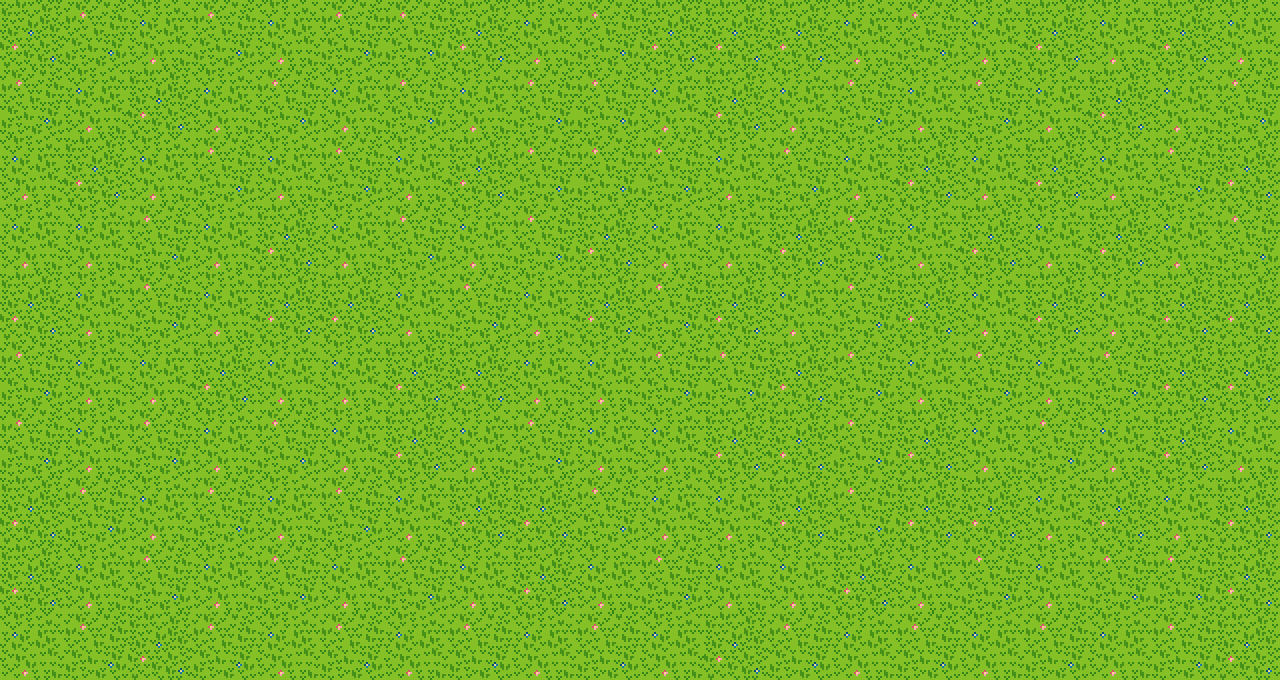
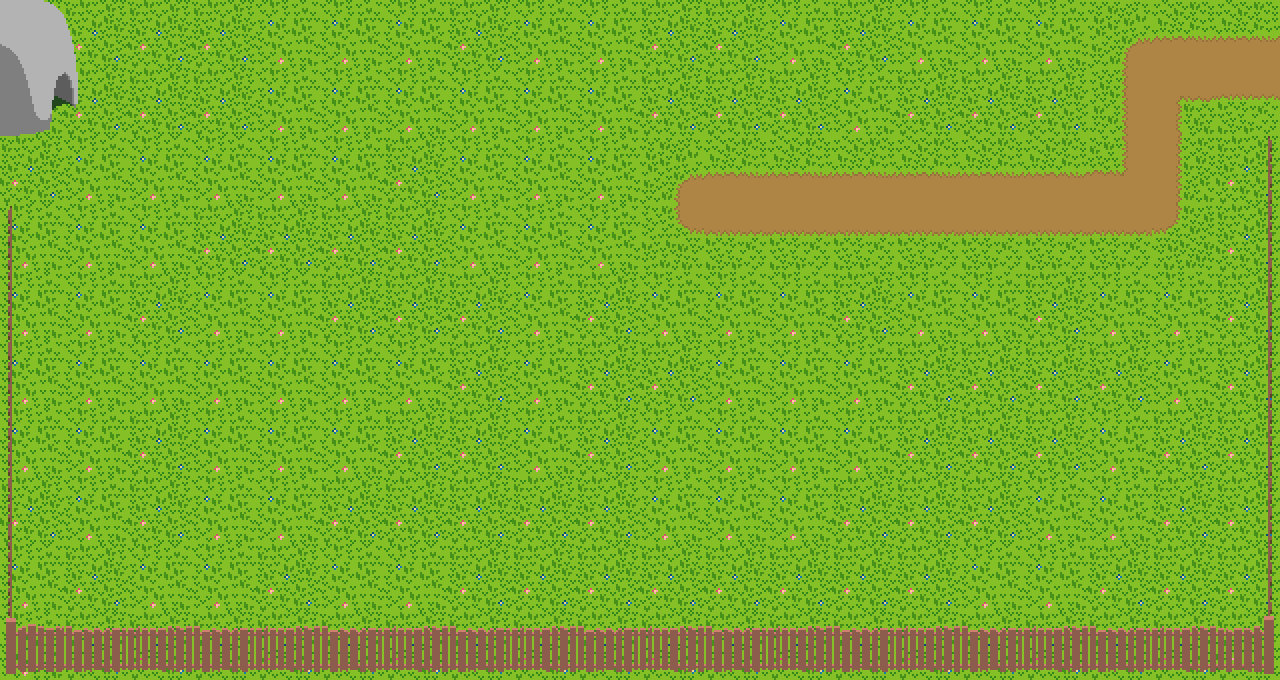
Add files via upload

diff --git a/main_beach.py b/main_beach.py
@@ -50,6 +50,8 @@ border1 = pygame.sprite.Group()
 border2 = pygame.sprite.Group()
 border3 = pygame.sprite.Group()
 border4 = pygame.sprite.Group()
+border5 = pygame.sprite.Group()
+border6 = pygame.sprite.Group()
 tree_sprites = pygame.sprite.Group()
 dobrinya = pygame.sprite.Group()
 b = pygame.sprite.Group()
@@ -88,8 +90,8 @@ class Hodit(pygame.sprite.Sprite):
         self.images.append(load_image('dobryny_side1_right.png').convert_alpha())
         self.image = dob
         self.rect = self.image.get_rect()
-        self.rect.x = 640
-        self.rect.y = 140
+        self.rect.x = 110
+        self.rect.y = 10
 
     def update1(self):
         if pygame.sprite.spritecollideany(self, border1):
@@ -116,46 +118,17 @@ class Hodit(pygame.sprite.Sprite):
             return True
 
     def update5(self):
-        if pygame.sprite.spritecollideany(self, border4):
+        if pygame.sprite.spritecollideany(self, border5):
             return False
         else:
             return True
 
     def update6(self):
-        if pygame.sprite.spritecollideany(self, border4):
+        if pygame.sprite.spritecollideany(self, border6):
             return False
         else:
             return True
 
-    def pupa(self):
-        for x in range(len(lstx)):
-            a = self.rect.x // 32 + 3
-            b = self.rect.y // 32 + 4
-            if a == lstx[x] + 2 and b == lsty[x] + 3 or a == lstx[x] + 3 and b == lsty[x] + 2 or \
-                    a == lstx[x] + 3 and b == lsty[x] + 1:
-                self.rect.x += 11
-
-    def pupa2(self):
-        for x in range(len(lstx)):
-            a = self.rect.x // 32 + 2
-            b = self.rect.y // 32 + 3
-            if a == lstx[x] and b == lsty[x] or a == lstx[x] + 1 and b == lsty[x] or a == lstx[x] - 1 and b == lsty[x]:
-                self.rect.y -= 11
-
-    def pupa3(self):
-        for x in range(len(lstx)):
-            a = self.rect.x // 32 + 1
-            b = self.rect.y // 32 + 1
-            if a == lstx[x] and b == lsty[x] or a == lstx[x] - 2 and b == lsty[x] or a == lstx[x] - 1 and b == lsty[x]:
-                self.rect.y += 11
-
-    def pupa4(self):
-        for x in range(len(lstx)):
-            a = self.rect.x // 32 + 1
-            b = self.rect.y // 32 + 1
-            if a == lstx[x] - 1 and b == lsty[x] or a == lstx[x] - 2 and b == lsty[x] - 1 or \
-                    a == lstx[x] - 2 and b == lsty[x] - 2:
-                self.rect.x -= 11
 
 
 class Board:
@@ -182,8 +155,8 @@ class Board:
 
     def random_spawn_trees(self, n):
         for i in range(n):
-            x = random.randint(2, 30)
-            y = random.randint(9, 17)
+            x = random.randint(2, 27)
+            y = random.randint(9, 14)
             if x in lstx or x + 1 in lstx or x + 2 in lstx or x + 3 in lstx:
                 if y in lsty or y + 1 in lsty or y + 2 in lsty or y + 3 in lsty or y + 4 in lsty:
                     continue
@@ -191,7 +164,7 @@ class Board:
             lsty.append(y + 1)
             self.board[y][x] = 10
             if self.board[y][x] == 10:
-                image = load_image('test__tree2.png').convert_alpha()
+                image = load_image('clay_test2.png').convert_alpha()
                 tree = pygame.sprite.Sprite(tree_sprites)
                 tree.image = image
                 tree.rect = tree.image.get_rect()
@@ -200,7 +173,7 @@ class Board:
                 tree.rect.y = 32 * (y - 1)
 
     def rerender(self, src):
-        phone = load_image('test_grass4.png').convert_alpha()
+        phone = load_image('test_beach1.png').convert_alpha()
         src.blit(phone, (0, 0))
 
     def rubit(self):
@@ -216,24 +189,31 @@ class Board:
                 if x == lstx[i] and y == lsty[j]:
                     if lines[9].strip() == "1":
                         self.f += 1
-                        self.aa = i
-                        self.a = j
                         break
         if self.f == 6:
             self.f = 0
             for sp in tree_sprites.sprites():
                 ix = sp.rect.x // 32 + 1
                 iy = sp.rect.y // 32 + 1
-                if sp.rect.x == 32 * (x - 1) and sp.rect.y == 32 * (y - 2):
-                    if (ix == xd // 32 + 1 or ix == xd // 32 + 2 or ix == xd // 32 + 3 or
-                        ix == xd // 32 - 1 or ix == xd // 32 - 2 or ix == xd // 32 - 3 or ix == xd // 32 + 2) \
-                            and (iy == yd // 32 or iy == yd // 32 - 1):
+                print(ix + 1, iy + 1)
+                print(xd // 32 + 3)
+                print(yd // 32 + 2)
+
+                if ix + 1 == x + 2 and iy + 1 == y + 2:
+                    if (ix + 1 == xd // 32 + 3 or ix + 1 == xd // 32 or ix + 1 == xd // 32 + 2 or
+                        ix + 1 == xd // 32 + 4 or ix + 1 == xd // 32 + 1) and \
+                            (iy + 1 == yd // 32 + 3 or iy + 1 == yd // 32 + 2 or iy + 1 == yd // 32 or
+                             iy + 1 == yd // 32 + 1):
                         sp.kill()
+                        print(ix)
+                        print(iy)
                         lstx.remove(ix + 1)
                         lsty.remove(iy + 1)
-                        wod = int(lines[2])
+                        print(lstx)
+                        print(lsty)
+                        wod = int(lines[6])
                         wod += random.randrange(10, 20)
-                        lines[2] = lines[2].replace(lines[2], str(wod) + '\n')
+                        lines[6] = lines[6].replace(lines[6], str(wod) + '\n')
                         with open('a.txt', 'w') as fi:
                             fi.writelines(lines)
                             fi.close()
@@ -248,9 +228,19 @@ board.random_spawn_trees(50)
 print(lstx)
 print(lsty)
 Border(1, 1, WIDTH - 1, 1, border1)
-Border(9, 203, 9, HEIGHT - 3, border2)
-Border(3, HEIGHT - 53, WIDTH - 3, HEIGHT - 3, border3)
-Border(WIDTH - 9, 143, WIDTH - 9, HEIGHT - 3, border4)
+Border(9, 90, 9, HEIGHT - 3, border2)
+Border(3, HEIGHT - 200, WIDTH - 390, HEIGHT - 200, border3)
+Border(WIDTH - 9, 3, WIDTH - 9, HEIGHT - 3, border4)
+Border(WIDTH - 260, HEIGHT - 200, WIDTH - 9, HEIGHT - 3, border3)
+Border(212, 90, WIDTH - 1, 1, border1)
+Border(212, 60, WIDTH - 1, 30, border3)
+Border(202, 60, 202, 85, border4)
+Border(WIDTH - 270, HEIGHT - 200, WIDTH - 270, HEIGHT - 40, border4)
+Border(WIDTH - 380, HEIGHT - 200, WIDTH - 380, HEIGHT - 40, border2)
+Border(WIDTH - 380, HEIGHT - 40, WIDTH - 270, HEIGHT - 40, border3)
+Border(9, 90, 110, 90, border1)
+Border(9, 60, 110, 60, border3)
+Border(120, 60, 120, 85, border2)
 pg.display.flip()
 flag1 = False
 flag2 = False
@@ -269,25 +259,21 @@ while running:
 
             if event.key == pygame.K_a:
                 if a.update2():
-                    a.pupa()
                     flag1 = True
                     index = 7
 
             if event.key == pygame.K_s:
                 if a.update3():
-                    a.pupa2()
                     flag2 = True
                     index = 4
 
             if event.key == pygame.K_w:
                 if a.update1():
-                    a.pupa3()
                     flag3 = True
                     index = 1
 
             if event.key == pygame.K_d:
                 if a.update4():
-                    a.pupa4()
                     flag4 = True
                     index = 10
 
@@ -348,7 +334,6 @@ while running:
 
     if flag1:
         if a.update2():
-            a.pupa()
             a.rect.x -= 11
         a.image = a.images[index]
         index += 1
@@ -356,7 +341,6 @@ while running:
             index = 7
     if flag2:
         if a.update3():
-            a.pupa2()
             a.rect.y += 11
         a.image = a.images[index]
         index += 1
@@ -364,7 +348,6 @@ while running:
             index = 4
     if flag3:
         if a.update1():
-            a.pupa3()
             a.rect.y -= 11
 
         a.image = a.images[index]
@@ -374,7 +357,6 @@ while running:
 
     if flag4:
         if a.update4():
-            a.pupa4()
             a.rect.x += 11
         a.image = a.images[index]
         index += 1
@@ -385,9 +367,7 @@ while running:
     tree_sprites.draw(screen)
     dobrinya.draw(screen)
     res_count(screen, lines)
-    if a.rect.x <= 80 and a.rect.y <= 121:
-        print('уходим')
-    if a.rect.x >= 1230 and a.rect.y <= 121:
+    if a.rect.x <= 80 and a.rect.y <= 40:
         print('уходим')
     clock.tick(30)
 
